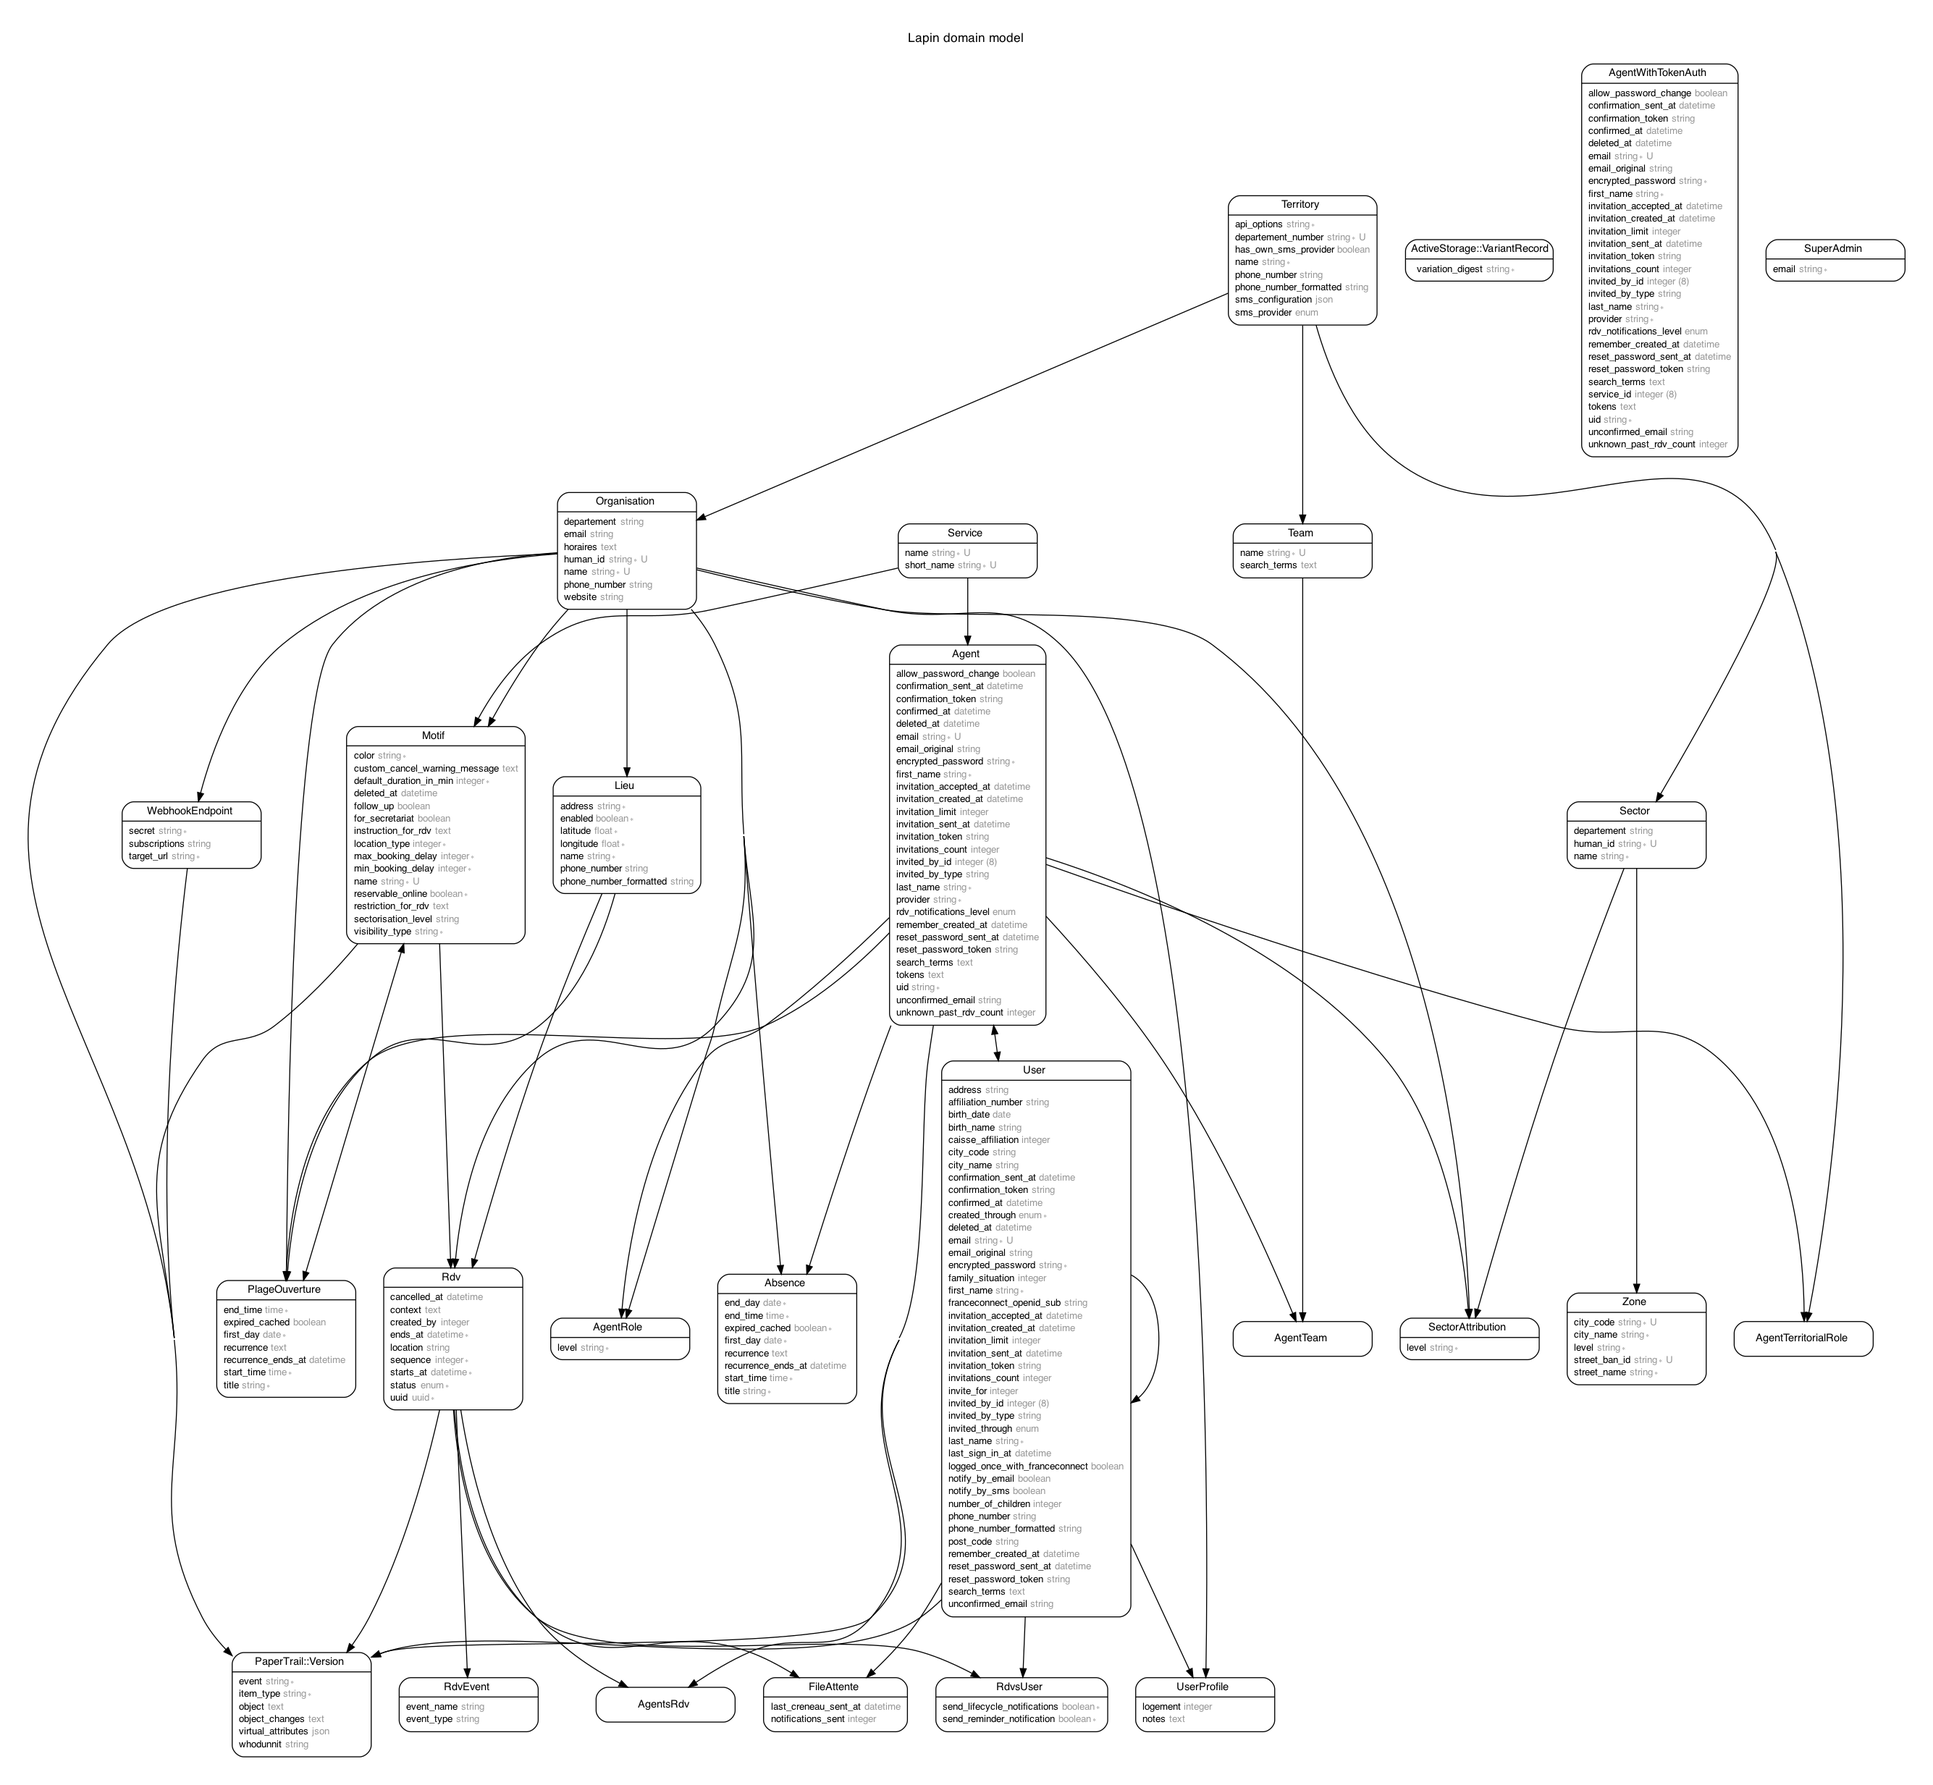
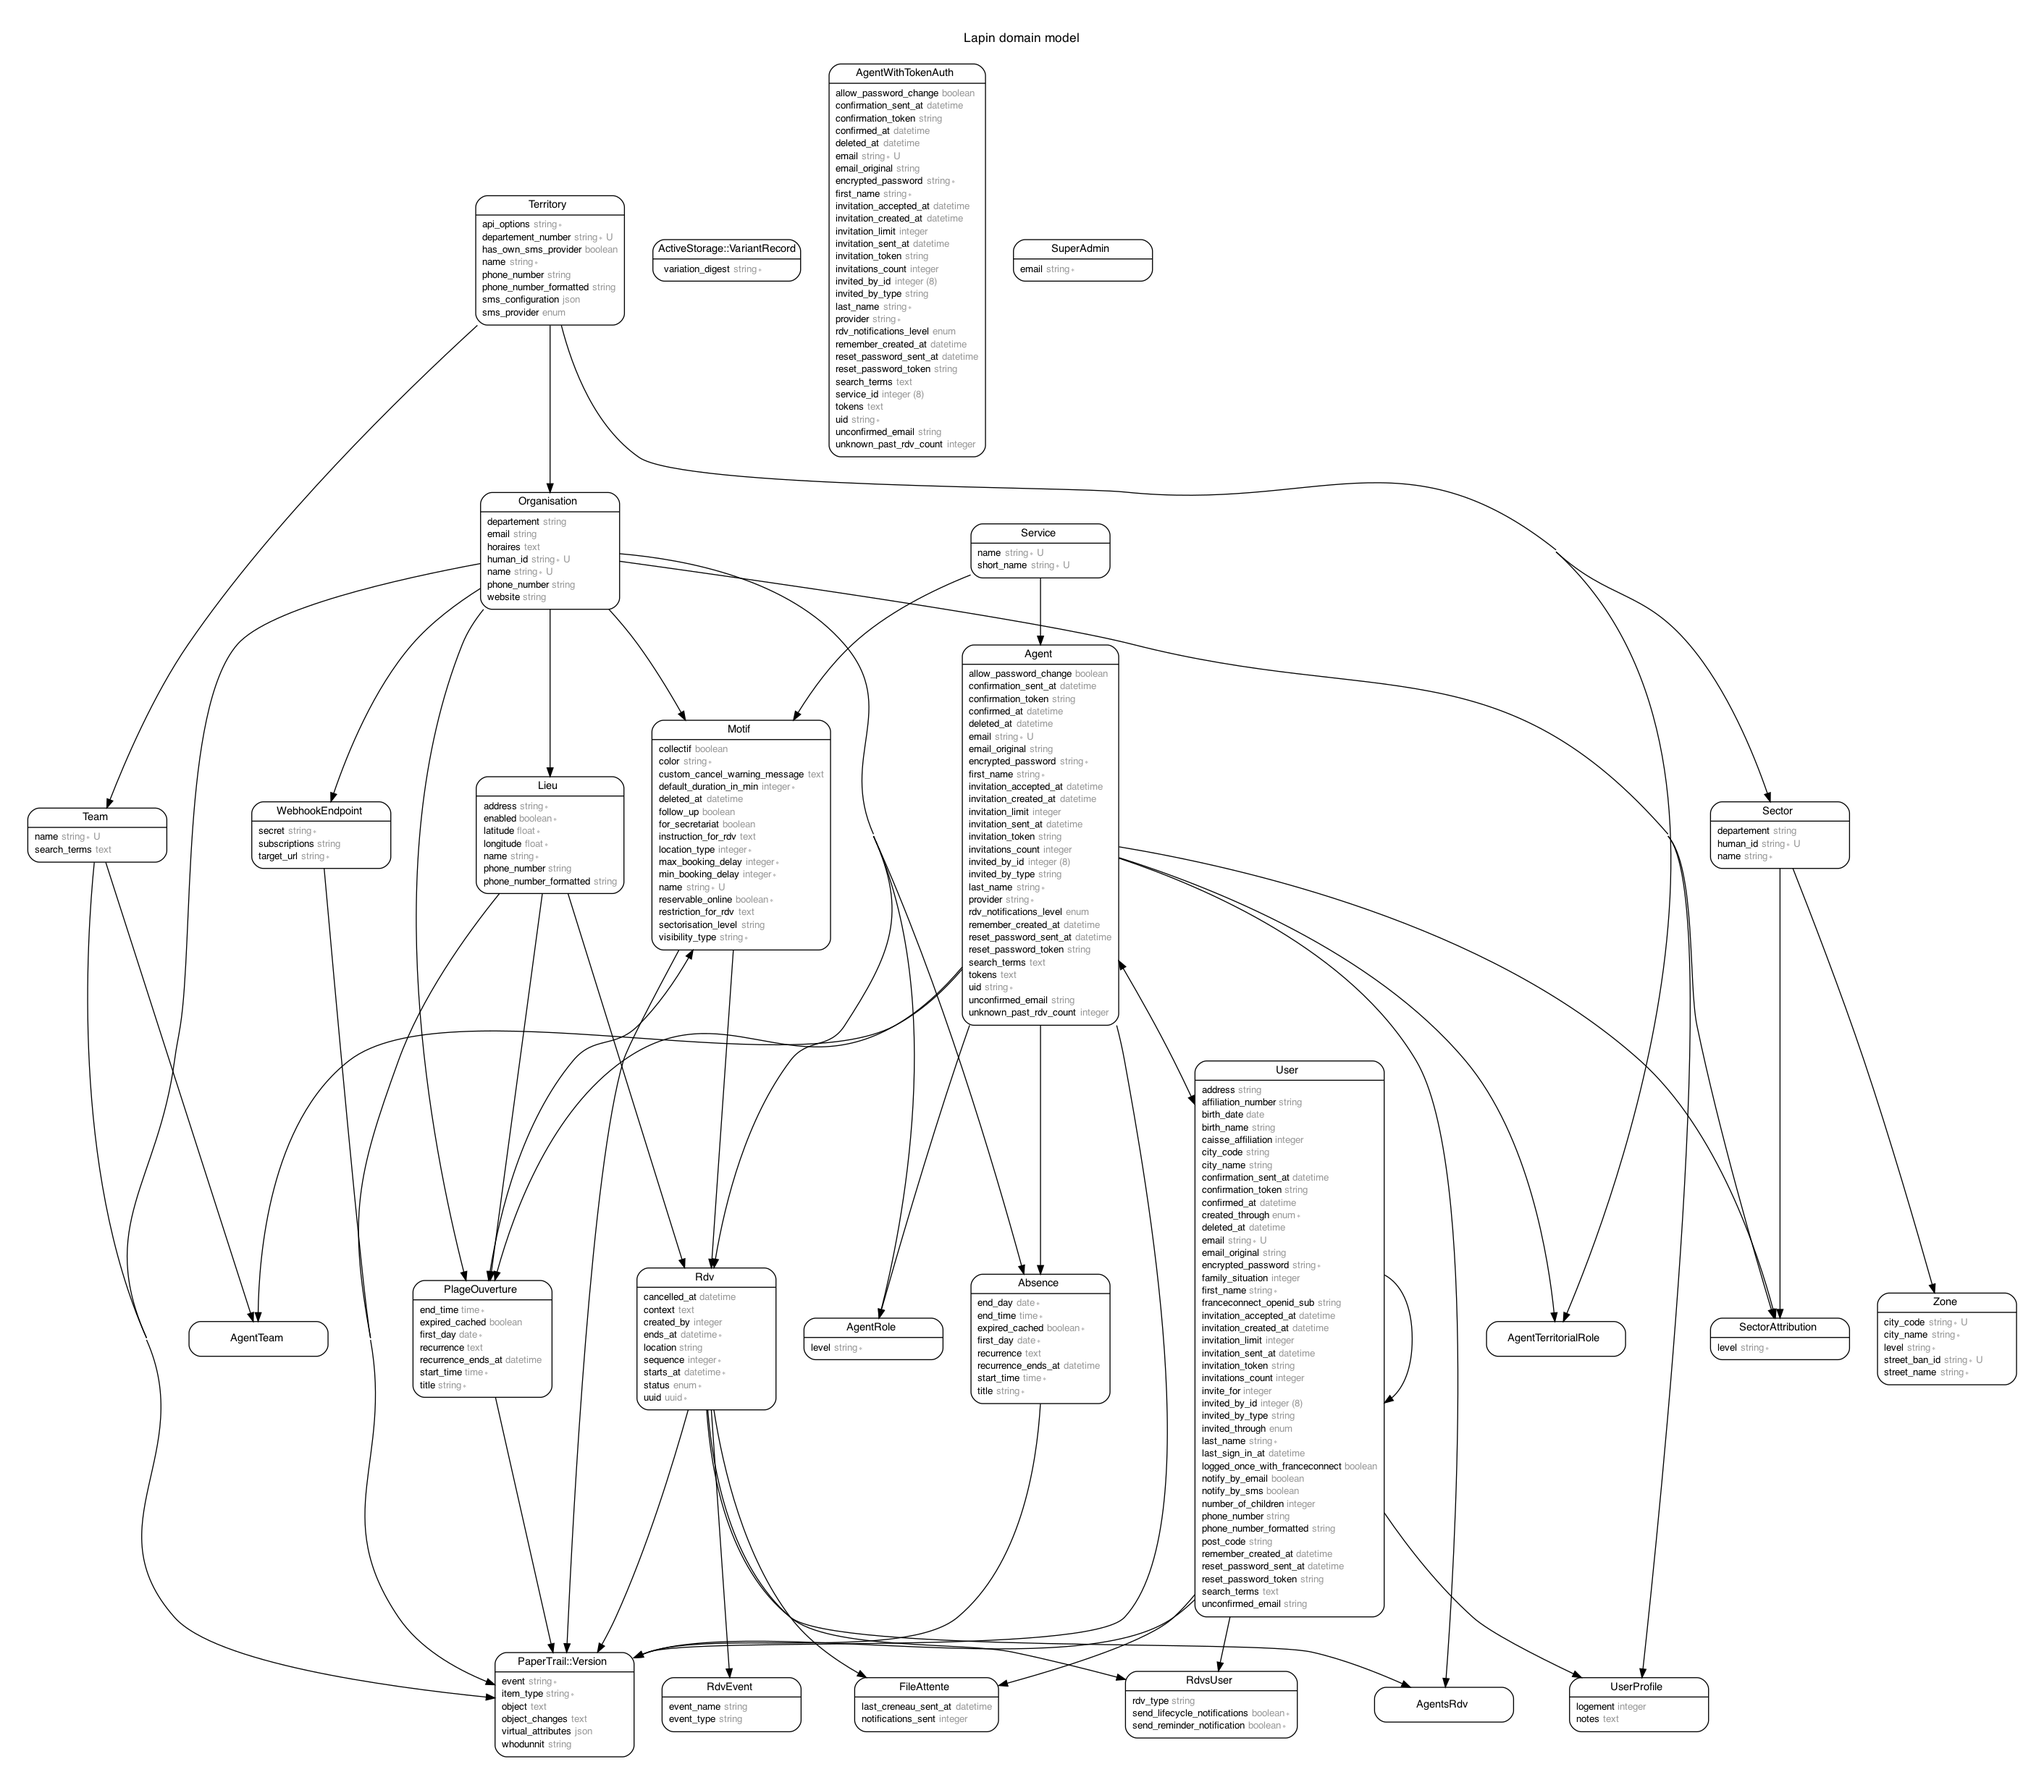
Add basic version of rdv collectifs

diff --git a/spec/features/agents/agent_can_create_rdv_collectif_spec.rb b/spec/features/agents/agent_can_create_rdv_collectif_spec.rb
@@ -1,0 +1,62 @@
+# frozen_string_literal: true
+
+describe "Agent can create a Rdv collectif" do
+  include UsersHelper
+
+  let!(:organisation) { create(:organisation) }
+  let!(:service) { create(:service) }
+  let!(:agent) { create(:agent, first_name: "Alain", last_name: "Tiptop", service: service, basic_role_in_organisations: [organisation]) }
+  let!(:motif) { create(:motif, :collectif, service: service, organisation: organisation) }
+
+  let!(:user1) { create(:user, organisations: [organisation]) }
+  let!(:user2) { create(:user, organisations: [organisation]) }
+  let!(:user3) { create(:user, organisations: [organisation]) }
+
+  let!(:lieu) { create(:lieu, organisation: organisation) }
+
+  before do
+    login_as(agent, scope: :agent)
+    visit admin_organisation_agent_agenda_path(organisation, agent)
+  end
+
+  it "default", js: true do
+    find(".fc-minor", match: :first).click
+
+    select(motif.name, from: "rdv_motif_id")
+    click_button("Continuer")
+
+    # Step 2
+    # First we don't add any users
+    expect(page).to have_selector(".card-title", text: "2. Usager(s)")
+    click_button("Continuer")
+
+    # Step 3
+    expect(page).to have_selector(".card-title", text: "3. Agent(s), horaires & lieu")
+    select(lieu.full_name, from: "rdv_lieu_id")
+    click_button("Continuer")
+
+    # Step 4
+    expect(page).to have_selector(".card-title", text: "4. Notifications")
+    expect(page).to have_selector(".list-group-item", text: /Motif/)
+    expect(page).to have_selector(".list-group-item", text: /Usager\(s\)/)
+    expect(page).to have_selector(".list-group-item", text: /Agent\(s\), horaires & lieu/)
+
+    click_button("Créer RDV")
+    sleep 1
+
+    rdv = Rdv.last
+    expect(rdv.users.count).to eq(0)
+    expect(rdv.motif).to eq(motif)
+    expect(rdv).to be_collectif
+
+    # Adding participants
+    visit admin_organisation_rdv_path(organisation, rdv)
+    click_on("Modifier")
+
+    add_user(user1)
+    add_user(user2)
+    add_user(user3)
+    click_button("Enregistrer")
+    expect(rdv.reload.users.count).to eq 3
+  end
+end

diff --git a/spec/services/rdv_updater_spec.rb b/spec/services/rdv_updater_spec.rb
@@ -116,4 +116,36 @@ describe RdvUpdater, type: :service do
       end
     end
   end
+
+  describe "for a rdv collectif" do
+    let(:rdv_params) do
+      {
+        rdvs_users_attributes: {
+          0 => { user_id: user_staying.id, send_lifecycle_notifications: 1, id: rdv.rdvs_users.find_by(user_id: user_staying.id).id, _destroy: false },
+          1 => { user_id: user_removed.id, send_lifecycle_notifications: 1, id: rdv.rdvs_users.find_by(user_id: user_removed.id).id, _destroy: true  },
+          2 => { user_id: user_added.id, send_lifecycle_notifications: 1 }
+        }
+      }
+    end
+    let(:rdv) { create(:rdv, agents: [agent], motif: motif, users: [user_staying, user_removed]) }
+    let(:agent) { create :agent }
+    let(:motif) { create(:motif, :collectif) }
+
+    let(:user_staying) { create(:user, first_name: "Stay") }
+    let(:user_added) { create(:user, first_name: "Add") }
+    let(:user_removed) { create(:user, first_name: "Remove") }
+    let(:rdv_payload_for_users) { rdv.payload(:create, user1) }
+
+    before do
+      allow(Users::RdvMailer).to receive(:rdv_created).and_return(instance_double(ActionMailer::MessageDelivery, deliver_later: nil))
+      allow(Users::RdvMailer).to receive(:rdv_cancelled).and_return(instance_double(ActionMailer::MessageDelivery, deliver_later: nil))
+    end
+
+    it "notifies the new participant, and the one that is removed" do
+      expect(Users::RdvMailer).to receive(:rdv_created).once.with(rdv.payload(:create, user_added), user_added)
+      expect(Users::RdvMailer).to receive(:rdv_cancelled).once.with(rdv.payload(:destroy, user_removed), user_removed)
+
+      described_class.update(agent, rdv, rdv_params)
+    end
+  end
 end

diff --git a/app/sms/users/rdv_sms.rb b/app/sms/users/rdv_sms.rb
@@ -32,15 +32,10 @@ class Users::RdvSms < Users::BaseSms
     I18n.l(rdv.starts_at, format: rdv.home? ? :short_approx : :short)
   end
 
-  def rdv_footer(rdv, user) # rubocop:disable Metrics/PerceivedComplexity
-    message = if rdv.phone?
-                "RDV Téléphonique\n"
-              elsif rdv.home?
-                "RDV à domicile\n#{rdv.address}\n"
-              else
-                "#{rdv.address_complete}\n"
-              end
-    if user.relatives.present?
+  def rdv_footer(rdv, user)
+    message = rdv_location(rdv)
+
+    if user.relatives.present? && !rdv.collectif?
       users_full_names = rdv.users.map(&:full_name).sort.to_sentence
       message += " pour #{users_full_names}"
     end
@@ -51,5 +46,15 @@ class Users::RdvSms < Users::BaseSms
     message += "Infos et annulation: #{rdvs_shorten_url(host: ENV['HOST'])}"
     message += " / #{rdv.phone_number}" if rdv.phone_number.present?
     message
+  end
+
+  def rdv_location(rdv)
+    if rdv.phone?
+      "RDV Téléphonique\n"
+    elsif rdv.home?
+      "RDV à domicile\n#{rdv.address}\n"
+    else
+      "#{rdv.address_complete}\n"
+    end
   end
 end

diff --git a/app/models/rdv.rb b/app/models/rdv.rb
@@ -37,10 +37,11 @@ class Rdv < ApplicationRecord
   has_many :webhook_endpoints, through: :organisation
 
   # Delegates
-  delegate :home?, :phone?, :public_office?, :reservable_online?, :service_social?, :follow_up?, :service, to: :motif
+  delegate :home?, :phone?, :public_office?, :reservable_online?, :service_social?, :follow_up?, :service, :collectif?, to: :motif
 
   # Validations
-  validates :rdvs_users, :starts_at, :ends_at, :agents, presence: true
+  validates :starts_at, :ends_at, :agents, presence: true
+  validates :rdvs_users, presence: true, unless: :collectif?
   validates :lieu, presence: true, if: :public_office?
   validate :starts_at_is_plausible
   validate :duration_is_plausible
@@ -195,6 +196,10 @@ class Rdv < ApplicationRecord
     rdvs = rdvs.where("DATE(starts_at) >= ?", options["start"]) if options["start"].present?
     rdvs = rdvs.where("DATE(starts_at) <= ?", options["end"]) if options["end"].present?
     rdvs
+  end
+
+  def participants_with_life_cycle_notification_ids
+    rdvs_users.where(send_lifecycle_notifications: true).pluck(:user_id)
   end
 
   private

diff --git a/db/schema.rb b/db/schema.rb
@@ -10,7 +10,7 @@
 #
 # It's strongly recommended that you check this file into your version control system.
 
-ActiveRecord::Schema.define(version: 2022_02_08_221144) do
+ActiveRecord::Schema.define(version: 2022_02_17_100251) do
 
   # These are extensions that must be enabled in order to support this database
   enable_extension "plpgsql"
@@ -267,6 +267,7 @@ ActiveRecord::Schema.define(version: 2022_02_08_221144) do
     t.string "visibility_type", default: "visible_and_notified", null: false
     t.string "sectorisation_level", default: "departement"
     t.text "custom_cancel_warning_message"
+    t.boolean "collectif", default: false
     t.index "to_tsvector('simple'::regconfig, (COALESCE(name, (''::text)::character varying))::text)", name: "index_motifs_name_vector", using: :gin
     t.index ["deleted_at"], name: "index_motifs_on_deleted_at"
     t.index ["location_type"], name: "index_motifs_on_location_type"

diff --git a/app/services/notifiers/rdv_collectif_participations.rb b/app/services/notifiers/rdv_collectif_participations.rb
@@ -1,0 +1,28 @@
+# frozen_string_literal: true
+
+class Notifiers::RdvCollectifParticipations < ::BaseService
+  def initialize(rdv, author, previous_participant_ids)
+    @rdv = rdv
+    @author = author
+    @previous_participant_ids = previous_participant_ids
+  end
+
+  def perform
+    Notifiers::RdvCreated.perform_with(@rdv, @author, new_participants)
+    Notifiers::RdvCancelled.perform_with(@rdv, @author, deleted_participants)
+  end
+
+  private
+
+  def new_participants
+    @new_participants ||= User.where(id: (current_participant_ids - @previous_participant_ids))
+  end
+
+  def deleted_participants
+    @deleted_participants ||= User.where(id: (@previous_participant_ids - current_participant_ids))
+  end
+
+  def current_participant_ids
+    @rdv.participants_with_life_cycle_notification_ids
+  end
+end

diff --git a/app/models/motif.rb b/app/models/motif.rb
@@ -56,6 +56,8 @@ class Motif < ApplicationRecord
   validate :booking_delay_validation
   validate :not_associated_with_secretariat
   validates :color, css_hex_color: true
+  validate :not_reservable_online_if_collectif
+  validate :not_at_home_if_collectif
 
   # Scopes
   scope :active, lambda { |active = true|
@@ -156,5 +158,17 @@ class Motif < ApplicationRecord
     return if service_id.nil?
 
     errors.add(:service_id, "ne peut être le secrétariat") if service.secretariat?
+  end
+
+  def not_reservable_online_if_collectif
+    return unless collectif? && reservable_online
+
+    errors.add(:base, :not_reservable_online_if_collectif)
+  end
+
+  def not_at_home_if_collectif
+    return unless collectif? && !public_office?
+
+    errors.add(:base, :not_at_home_if_collectif)
   end
 end

diff --git a/app/services/notifiers/rdv_base.rb b/app/services/notifiers/rdv_base.rb
@@ -9,9 +9,12 @@ class Notifiers::RdvBase < ::BaseService
   # :notify_user_by_sms(user)
   # :notify_agent(agent)
 
-  def initialize(rdv, author)
+  # By default, notifications are sent to all the rdv users
+  # The optional `users` argument can be used to send notifications to them instead of rdv.users
+  def initialize(rdv, author, users = nil)
     @rdv = rdv
     @author = author
+    @users = users || rdvs_users_to_notify.map(&:user)
   end
 
   def perform
@@ -44,7 +47,7 @@ class Notifiers::RdvBase < ::BaseService
   end
 
   def users_to_notify
-    rdvs_users_to_notify.map(&:user).map(&:user_to_notify).uniq
+    @users.map(&:user_to_notify).uniq
   end
 
   ## Agents notifications

diff --git a/app/services/rdv_updater.rb b/app/services/rdv_updater.rb
@@ -12,6 +12,8 @@ module RdvUpdater
         rdv_params[:cancelled_at] = rdv_params[:status].in?(%w[excused revoked noshow]) ? Time.zone.now : nil
       end
 
+      previous_participant_ids = rdv.participants_with_life_cycle_notification_ids
+
       result = rdv.update(rdv_params)
 
       # Send relevant notifications (cancellation and date update)
@@ -24,6 +26,10 @@ module RdvUpdater
 
         if rdv.previous_changes["starts_at"].present?
           Notifiers::RdvDateUpdated.perform_with(rdv, author)
+        end
+
+        if rdv.collectif?
+          Notifiers::RdvCollectifParticipations.perform_with(rdv, author, previous_participant_ids)
         end
       end
       result

diff --git a/spec/models/motif_spec.rb b/spec/models/motif_spec.rb
@@ -163,4 +163,16 @@ describe Motif, type: :model do
       it { is_expected.to be_empty }
     end
   end
+
+  describe "motif de rdv collectif" do
+    subject(:motif) { build(:motif, collectif: true, reservable_online: true, location_type: :home) }
+
+    it "validates that a rdv collectif can't be reserved online and can't be at the user's home" do
+      expect(motif).not_to be_valid
+      expect(subject.errors.full_messages).to eq [
+        "La réservation en ligne n'est pas possible pour les RDV collectifs.",
+        "Les RDV collectifs doivent avoir lieu sur place."
+      ]
+    end
+  end
 end

diff --git a/app/controllers/admin/motifs_controller.rb b/app/controllers/admin/motifs_controller.rb
@@ -49,6 +49,7 @@ class Admin::MotifsController < AgentAuthController
       flash[:notice] = "Le motif a été modifié."
       redirect_to admin_organisation_motif_path(@motif.organisation, @motif)
     else
+      set_available_services
       render :edit
     end
   end
@@ -99,6 +100,7 @@ class Admin::MotifsController < AgentAuthController
               :custom_cancel_warning_message,
               :for_secretariat,
               :follow_up,
+              :collectif,
               :sectorisation_level)
   end
 

diff --git a/app/models/concerns/payloads/rdv.rb b/app/models/concerns/payloads/rdv.rb
@@ -48,7 +48,8 @@ module Payloads
           motif_service_id: motif.service.id,
           organisation_name: organisation.name,
           organisation_departement_number: organisation.departement_number,
-          motif_name_with_location_type: motif.name_with_location_type
+          motif_name_with_location_type: motif.name_with_location_type,
+          collectif?: collectif?
         }
       )
 
